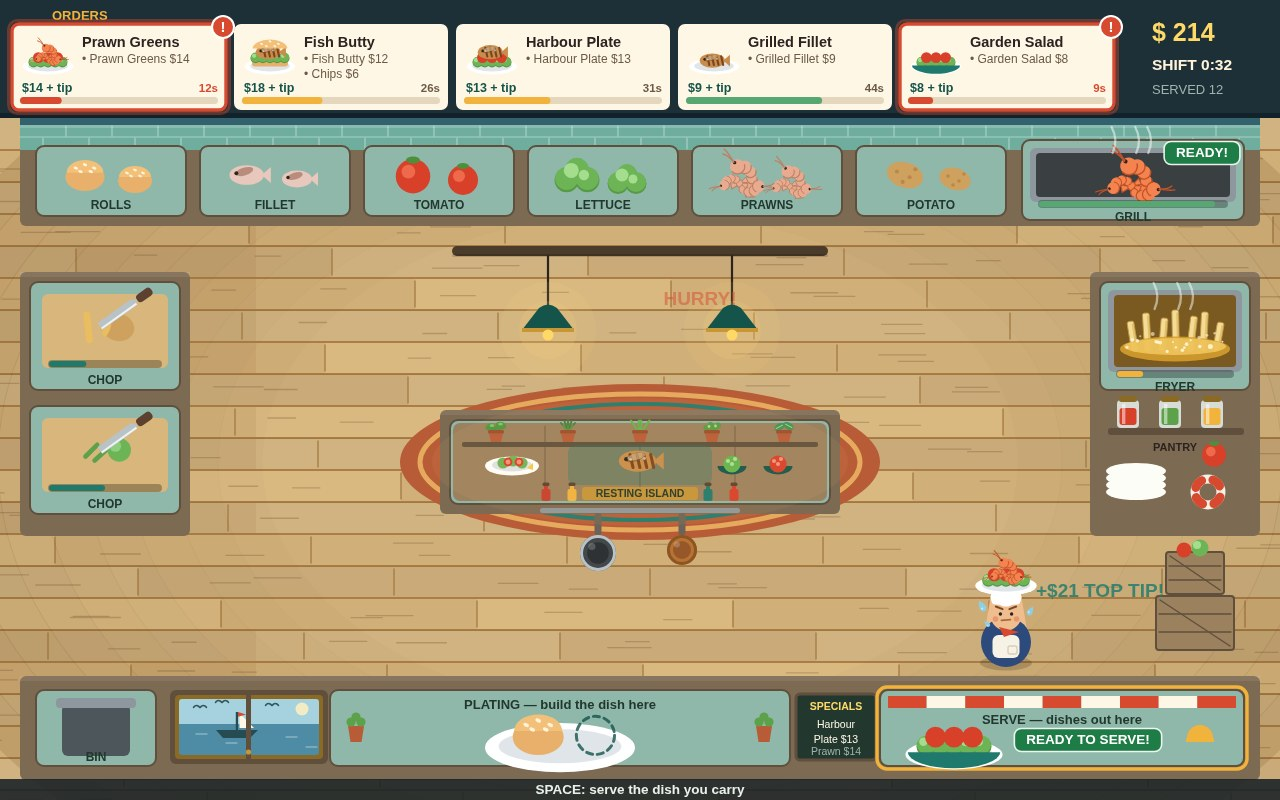
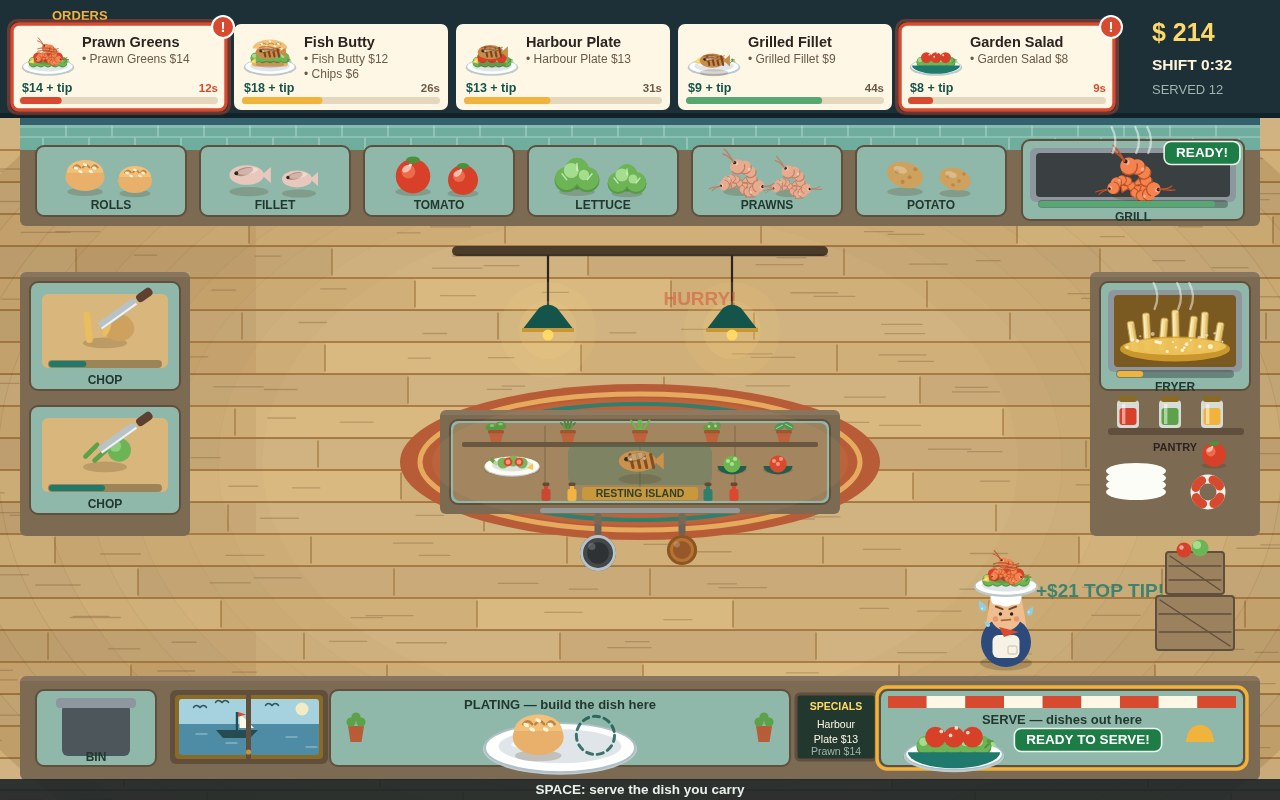
V11: food worth serving — one contact shadow under all food, two-tone crockery rims on every plate, sauce drizzle + lemon + garnish finish on plated dishes, gloss on the raw ingredients (burnt stays matte), answering the judge simulation's appetising caveat

diff --git a/game/src/render.js b/game/src/render.js
@@ -58,7 +58,7 @@ function text(ctx, str, x, y, size, color, align = 'center', bold = true) {
  * fat at the head, slimming ring by ring to a fanned tail — with an eye and feelers.
  * Centred on the origin, roughly 36 units wide before the caller's scale.
  */
-function drawPrawn(ctx, colors, rot) {
+function drawPrawn(ctx, colors, rot, sheen = true) {
   ctx.save();
   ctx.rotate(rot);
   const segs = [];
@@ -87,6 +87,14 @@ function drawPrawn(ctx, colors, rot) {
     ctx.lineWidth = 1.1;
     ctx.beginPath(); ctx.arc(s.x, s.y, s.r, -0.5, 2.1); ctx.stroke();
   }
+  if (sheen) {
+    // A wet sheen on the head and one mid segment — fresh or just grilled,
+    // the shell catches the light. Burnt prawns are matte and skip it.
+    ctx.fillStyle = 'rgba(255,255,255,0.35)';
+    for (const s of [segs[0], segs[2]]) {
+      ctx.beginPath(); ctx.arc(s.x - s.r * 0.3, s.y - s.r * 0.38, s.r * 0.3, 0, Math.PI * 2); ctx.fill();
+    }
+  }
   // The head: one dark eye and two long feelers sweeping back.
   const head = segs[0];
   ctx.fillStyle = '#2b2320';
@@ -103,18 +111,38 @@ function drawPrawn(ctx, colors, rot) {
   ctx.restore();
 }
 
+/**
+ * The contact shadow every piece of food sits on: one flat ellipse of warm
+ * shade in the renderer's own language (no gradients anywhere in this file),
+ * drawn in the caller's local units just before the food itself, so a tomato
+ * on a board and a plate on the pass both rest on the surface under them
+ * instead of floating over it. One helper, one colour, everywhere.
+ */
+function foodShadow(ctx, rx, y) {
+  ctx.fillStyle = 'rgba(74,44,16,0.20)';
+  ctx.beginPath(); ctx.ellipse(0, y, rx, rx * 0.24, 0, 0, Math.PI * 2); ctx.fill();
+}
+
 /** One ingredient, centred on (x, y), roughly s px across. Used by bins, hands and boards. */
-export function drawItem(ctx, item, x, y, s) {
+export function drawItem(ctx, item, x, y, s, shadow = true) {
   const u = s / 40;
   ctx.save();
   ctx.translate(x, y);
   ctx.scale(u, u);
+  if (shadow) foodShadow(ctx, item.startsWith('fillet') ? 17 : 15.5, 14.5);
   switch (item) {
     case 'bun':
       ctx.fillStyle = '#e8b06a';
       ctx.beginPath(); ctx.ellipse(0, 2, 17, 12, 0, 0, Math.PI * 2); ctx.fill();
       ctx.fillStyle = '#f2c078';
       ctx.beginPath(); ctx.ellipse(0, -2, 16, 11, 0, Math.PI, 0); ctx.fill();
+      // The baker's scoring: three shallow slashes opened across the dome.
+      ctx.strokeStyle = 'rgba(160,100,40,0.65)';
+      ctx.lineWidth = 1.6;
+      ctx.lineCap = 'round';
+      for (const [sx, ex] of [[-10, -4], [-2, 4], [6, 11]]) {
+        ctx.beginPath(); ctx.moveTo(sx, -6.5); ctx.quadraticCurveTo((sx + ex) / 2, -10.5, ex, -6.5); ctx.stroke();
+      }
       ctx.fillStyle = '#fff3da';
       for (const [sx, sy] of [[-8, -6], [0, -9], [8, -6], [-4, -3], [5, -3]]) {
         ctx.beginPath(); ctx.ellipse(sx, sy, 2, 1.2, 0.4, 0, Math.PI * 2); ctx.fill();
@@ -133,6 +161,11 @@ export function drawItem(ctx, item, x, y, s) {
       ctx.beginPath(); ctx.ellipse(-4, -3, 8, 3.4, -0.3, 0, Math.PI * 2); ctx.fill();
       ctx.fillStyle = '#2b2320';
       ctx.beginPath(); ctx.arc(-11, -1.5, 1.7, 0, Math.PI * 2); ctx.fill();
+      if (item === 'fillet_raw') {
+        // Fresh off the boat: a wet sheen band along the flank.
+        ctx.fillStyle = 'rgba(255,255,255,0.35)';
+        ctx.beginPath(); ctx.ellipse(-1, -3.4, 9, 2.7, -0.18, 0, Math.PI * 2); ctx.fill();
+      }
       if (item === 'fillet_grilled') {
         // Char marks from the grill bars, then a glisten of cooking oil on top.
         ctx.strokeStyle = '#7a451f'; ctx.lineWidth = 2.5; ctx.lineCap = 'round';
@@ -152,9 +185,10 @@ export function drawItem(ctx, item, x, y, s) {
       const colors = item === 'prawns_raw' ? { body: '#e8ab90', line: '#bd7f63' }
         : item === 'prawns_grilled' ? { body: '#f4834f', line: '#c25227' }
         : { body: '#503a2c', line: '#2e2019' };
-      drawPrawn(ctx, colors, 0.25);
-      ctx.save(); ctx.translate(9, 8); ctx.scale(0.82, 0.82); drawPrawn(ctx, colors, 2.5); ctx.restore();
-      ctx.save(); ctx.translate(-9, 9); ctx.scale(0.7, 0.7); drawPrawn(ctx, colors, -0.9); ctx.restore();
+      const sheen = item !== 'prawns_burnt';
+      drawPrawn(ctx, colors, 0.25, sheen);
+      ctx.save(); ctx.translate(9, 8); ctx.scale(0.82, 0.82); drawPrawn(ctx, colors, 2.5, sheen); ctx.restore();
+      ctx.save(); ctx.translate(-9, 9); ctx.scale(0.7, 0.7); drawPrawn(ctx, colors, -0.9, sheen); ctx.restore();
       break;
     }
     case 'tomato':
@@ -162,6 +196,11 @@ export function drawItem(ctx, item, x, y, s) {
       ctx.beginPath(); ctx.arc(0, 1, 15, 0, Math.PI * 2); ctx.fill();
       ctx.fillStyle = '#ef6a4d';
       ctx.beginPath(); ctx.arc(-4, -3, 6, 0, Math.PI * 2); ctx.fill();
+      // A ripe gloss: one soft highlight and its pin-dot, upper left.
+      ctx.fillStyle = 'rgba(255,255,255,0.55)';
+      ctx.beginPath(); ctx.ellipse(-5.5, -5.5, 4.2, 2.6, -0.6, 0, Math.PI * 2); ctx.fill();
+      ctx.fillStyle = 'rgba(255,255,255,0.7)';
+      ctx.beginPath(); ctx.arc(-2.2, -8.6, 1.4, 0, Math.PI * 2); ctx.fill();
       ctx.fillStyle = '#4d8f3a';
       ctx.beginPath(); ctx.ellipse(0, -13, 6, 3, 0, 0, Math.PI * 2); ctx.fill();
       break;
@@ -174,6 +213,9 @@ export function drawItem(ctx, item, x, y, s) {
       }
       break;
     case 'lettuce':
+      // A dark heart under the leaves, so the ruffles sit in their own shade.
+      ctx.fillStyle = '#4c8a3e';
+      ctx.beginPath(); ctx.ellipse(0, 8, 12, 4.5, 0, 0, Math.PI * 2); ctx.fill();
       ctx.fillStyle = '#579a44';
       for (const [ox, oy] of [[-9, 3], [9, 3], [0, -5]]) {
         ctx.beginPath(); ctx.arc(ox, oy + 1.5, 10.5, 0, Math.PI * 2); ctx.fill();
@@ -185,6 +227,13 @@ export function drawItem(ctx, item, x, y, s) {
       ctx.fillStyle = '#a5dd8f';
       ctx.beginPath(); ctx.arc(-5, -4, 6.5, 0, Math.PI * 2); ctx.fill();
       ctx.beginPath(); ctx.arc(6, 0, 4.5, 0, Math.PI * 2); ctx.fill();
+      // Pale veins out from the heart of each leaf.
+      ctx.strokeStyle = 'rgba(220,245,205,0.8)';
+      ctx.lineWidth = 1.3;
+      ctx.lineCap = 'round';
+      for (const [x1, y1, x2, y2] of [[-9, 4, -13, -1], [9, 4, 13, -1], [0, -4, 0, -10]]) {
+        ctx.beginPath(); ctx.moveTo(x1, y1); ctx.lineTo(x2, y2); ctx.stroke();
+      }
       break;
     case 'lettuce_cut': {
       // Shreds with real colour pop: a dark bed, bright bodies, pale tips.
@@ -205,6 +254,9 @@ export function drawItem(ctx, item, x, y, s) {
       ctx.beginPath(); ctx.ellipse(0, 0, 16, 11, 0.3, 0, Math.PI * 2); ctx.fill();
       ctx.fillStyle = '#b8894a';
       for (const [px, py] of [[-7, -3], [4, 2], [9, -5], [-2, 6]]) { ctx.beginPath(); ctx.arc(px, py, 1.8, 0, Math.PI * 2); ctx.fill(); }
+      // A dull sheen on the skin, upper left.
+      ctx.fillStyle = 'rgba(255,255,255,0.28)';
+      ctx.beginPath(); ctx.ellipse(-4, -4.5, 6, 3, 0.3, 0, Math.PI * 2); ctx.fill();
       break;
     case 'potato_cut':
       // Cut potato, one step deeper toward the chips' gold than it used to be —
@@ -263,15 +315,26 @@ export function drawItem(ctx, item, x, y, s) {
 const LAYER_ORDER = ['bun', 'lettuce_cut', 'tomato_cut', 'fillet_grilled', 'prawns_grilled'];
 
 /** A plated dish (or a plate mid-assembly) drawn as its stacked layers, plate included. */
-export function drawPlate(ctx, items, x, y, s) {
+export function drawPlate(ctx, items, x, y, s, shadow = true) {
   const u = s / 90;
   ctx.save();
   ctx.translate(x, y);
   ctx.scale(u, u);
+  if (shadow) foodShadow(ctx, 44, 18);
+  // Crockery, not a disc: a grey outer edge under the white, a hairline
+  // around the rim, the well a touch deeper, and a sheen along the rim's
+  // left where the light catches it.
+  ctx.fillStyle = '#bfcbd0';
+  ctx.beginPath(); ctx.ellipse(0, 17.5, 43.5, 13.8, 0, 0, Math.PI * 2); ctx.fill();
   ctx.fillStyle = '#ffffff';
   ctx.beginPath(); ctx.ellipse(0, 16, 42, 13, 0, 0, Math.PI * 2); ctx.fill();
+  ctx.strokeStyle = '#aebfc5';
+  ctx.lineWidth = 1.2;
+  ctx.beginPath(); ctx.ellipse(0, 16, 42, 13, 0, 0, Math.PI * 2); ctx.stroke();
   ctx.fillStyle = '#dfe5e8';
   ctx.beginPath(); ctx.ellipse(0, 15, 33, 9, 0, 0, Math.PI * 2); ctx.fill();
+  ctx.fillStyle = 'rgba(255,255,255,0.7)';
+  ctx.beginPath(); ctx.ellipse(-15, 11.5, 12, 3, -0.15, 0, Math.PI * 2); ctx.fill();
   const layers = LAYER_ORDER.filter((item) => items.includes(item));
   let top = 12;
   for (const item of layers) {
@@ -300,13 +363,57 @@ export function drawPlate(ctx, items, x, y, s) {
     }
   }
   if (layers.length > 1 && items.includes('bun')) {
-    // The top bun crowns a finished butty.
+    // The top bun crowns a finished butty — scored like its bin self.
     ctx.fillStyle = '#f2c078';
     ctx.beginPath(); ctx.ellipse(0, top - 2, 29, 15, 0, Math.PI, 0); ctx.fill();
+    ctx.strokeStyle = 'rgba(160,100,40,0.6)';
+    ctx.lineWidth = 1.8;
+    ctx.lineCap = 'round';
+    for (const [sx, ex] of [[-16, -7], [-3, 6], [10, 18]]) {
+      ctx.beginPath(); ctx.moveTo(sx, top - 9); ctx.quadraticCurveTo((sx + ex) / 2, top - 13.5, ex, top - 9); ctx.stroke();
+    }
     ctx.fillStyle = '#fff3da';
     for (const [sx, sy] of [[-14, top - 10], [0, top - 14], [14, top - 10], [-6, top - 6], [8, top - 6]]) {
       ctx.beginPath(); ctx.ellipse(sx, sy, 2.6, 1.5, 0.4, 0, Math.PI * 2); ctx.fill();
     }
+  }
+  // The finish, the difference between food and a dish: a grilled plate gets
+  // a sauce drizzle across its top and a lemon wedge at its side; every
+  // plate gets a garnish sprig at its rim; a salad gets its dressing dots.
+  const grilled = items.includes('fillet_grilled') || items.includes('prawns_grilled');
+  if (grilled) {
+    ctx.strokeStyle = 'rgba(146,64,24,0.55)';
+    ctx.lineWidth = 2.1;
+    ctx.lineCap = 'round';
+    for (const dy of [-3.5, 0.5]) {
+      ctx.beginPath();
+      ctx.moveTo(-17, top + dy);
+      ctx.quadraticCurveTo(-6, top + dy - 3.4, 4, top + dy);
+      ctx.quadraticCurveTo(11, top + dy + 2.6, 17, top + dy - 0.6);
+      ctx.stroke();
+    }
+    // The lemon wedge: a yellow fan with a paler heart, at the plate's left.
+    ctx.fillStyle = '#f7c948';
+    ctx.beginPath(); ctx.moveTo(-33, 9); ctx.lineTo(-24, 1); ctx.lineTo(-23, 11); ctx.closePath(); ctx.fill();
+    ctx.fillStyle = '#fbe38a';
+    ctx.beginPath(); ctx.moveTo(-30.5, 8); ctx.lineTo(-25.5, 4); ctx.lineTo(-25, 9.5); ctx.closePath(); ctx.fill();
+  }
+  if (items.includes('lettuce_cut') && items.includes('tomato_cut') && !grilled && !items.includes('bun')) {
+    ctx.fillStyle = 'rgba(255,246,220,0.85)';
+    for (const [dx, dy] of [[-11, -2], [2, -5], [12, -1], [-3, 1.5]]) {
+      ctx.beginPath(); ctx.arc(dx, top + dy, 1.6, 0, Math.PI * 2); ctx.fill();
+    }
+  }
+  if (layers.length) {
+    // A garnish sprig at the rim: two small leaves and a stem, bright green.
+    ctx.strokeStyle = '#4c8a3e';
+    ctx.lineWidth = 1.4;
+    ctx.lineCap = 'round';
+    ctx.beginPath(); ctx.moveTo(27, 10); ctx.quadraticCurveTo(30, 6, 33.5, 4.5); ctx.stroke();
+    ctx.fillStyle = '#579a44';
+    ctx.beginPath(); ctx.ellipse(31.5, 5.5, 3.6, 2, 0.7, 0, Math.PI * 2); ctx.fill();
+    ctx.fillStyle = '#a5dd8f';
+    ctx.beginPath(); ctx.ellipse(34, 7.5, 2.8, 1.6, 0.9, 0, Math.PI * 2); ctx.fill();
   }
   if (items.includes('lettuce_cut') && items.includes('tomato_cut') && !items.includes('bun')
     && !items.includes('fillet_grilled') && !items.includes('prawns_grilled')) {
@@ -327,10 +434,19 @@ function drawPlateSpread(ctx, items, x, y, s) {
   ctx.save();
   ctx.translate(x, y);
   ctx.scale(u, u);
+  foodShadow(ctx, 56, 12.5);
+  // The same crockery as a finished plate: grey edge, hairline, sheen.
+  ctx.fillStyle = '#bfcbd0';
+  ctx.beginPath(); ctx.ellipse(0, 11, 56.5, 18.8, 0, 0, Math.PI * 2); ctx.fill();
   ctx.fillStyle = '#ffffff';
   ctx.beginPath(); ctx.ellipse(0, 10, 55, 18, 0, 0, Math.PI * 2); ctx.fill();
+  ctx.strokeStyle = '#aebfc5';
+  ctx.lineWidth = 1.4;
+  ctx.beginPath(); ctx.ellipse(0, 10, 55, 18, 0, 0, Math.PI * 2); ctx.stroke();
   ctx.fillStyle = '#dfe5e8';
   ctx.beginPath(); ctx.ellipse(0, 9, 45, 12.5, 0, 0, Math.PI * 2); ctx.fill();
+  ctx.fillStyle = 'rgba(255,255,255,0.7)';
+  ctx.beginPath(); ctx.ellipse(-20, 5.5, 16, 4, -0.15, 0, Math.PI * 2); ctx.fill();
   const slots = items.length >= 3 ? [[-29, 1], [0, -6], [29, 1]]
     : items.length === 2 ? [[-28, 0], [28, 0]]
     : [[-16, 0]];
@@ -347,13 +463,13 @@ function drawPlateSpread(ctx, items, x, y, s) {
 }
 
 /** The icon for a whole dish: a plate stack for recipes, the carton for fries. */
-export function drawDish(ctx, dishId, x, y, s) {
+export function drawDish(ctx, dishId, x, y, s, shadow = true) {
   if (dishId === 'fries') {
-    drawItem(ctx, 'fries', x, y, s * 0.9);
+    drawItem(ctx, 'fries', x, y, s * 0.9, shadow);
     return;
   }
   const recipe = DISHES[dishId];
-  if (recipe) drawPlate(ctx, recipe.items, x, y, s);
+  if (recipe) drawPlate(ctx, recipe.items, x, y, s, shadow);
 }
 
 function drawStationBase(ctx, station, active, shaking) {
@@ -413,6 +529,7 @@ function drawMidChop(ctx, item, chops, x, y, s) {
   ctx.save();
   ctx.translate(x, y);
   ctx.scale(u, u);
+  foodShadow(ctx, 17, 13);
   if (item === 'tomato') {
     // Slices already off, fanned to the left.
     for (let i = 0; i < chops; i++) {
@@ -434,6 +551,9 @@ function drawMidChop(ctx, item, chops, x, y, s) {
     for (const [sx, sy] of [[4, 4], [10, 5.4], [16, 4]]) {
       ctx.beginPath(); ctx.arc(sx, sy, 1.5, 0, Math.PI * 2); ctx.fill();
     }
+    // The dome's gloss, the same highlight the whole tomato wears.
+    ctx.fillStyle = 'rgba(255,255,255,0.5)';
+    ctx.beginPath(); ctx.ellipse(5.5, -2.5, 3.4, 1.9, -0.5, 0, Math.PI * 2); ctx.fill();
     ctx.fillStyle = '#4d8f3a';
     ctx.beginPath(); ctx.ellipse(10, -8.5, 5, 2.6, 0, 0, Math.PI * 2); ctx.fill();
   } else if (item === 'potato') {
@@ -499,6 +619,8 @@ function drawFryerCooking(ctx, cx, cy) {
     ctx.rotate(rot);
     ctx.fillStyle = face;
     rr(ctx, -3.4, -h, 6.8, h, 2); ctx.fill();
+    ctx.fillStyle = 'rgba(255,252,235,0.5)';
+    ctx.fillRect(-2.4, -h + 3, 1.5, h - 8);
     ctx.fillStyle = shade;
     ctx.fillRect(1, -h + 2.5, 2, h - 5);
     ctx.strokeStyle = edge;
@@ -762,6 +884,8 @@ function drawKitchen(ctx, state) {
   crate(1166, 552, 58, 42);
   ctx.fillStyle = '#d8402a';
   ctx.beginPath(); ctx.arc(1184, 550, 7.5, 0, Math.PI * 2); ctx.fill();
+  ctx.fillStyle = 'rgba(255,255,255,0.55)';
+  ctx.beginPath(); ctx.arc(1181.5, 547.5, 2.2, 0, Math.PI * 2); ctx.fill();
   ctx.fillStyle = '#6db457';
   ctx.beginPath(); ctx.arc(1200, 548, 8.5, 0, Math.PI * 2); ctx.fill();
   ctx.fillStyle = '#a5dd8f';
@@ -874,6 +998,10 @@ function drawKitchen(ctx, state) {
       // A dressed resting plate at the left end: greens, tomato, a lemon wedge.
       const rpX = station.x + 62;
       const rpY = station.y + 46;
+      ctx.fillStyle = 'rgba(74,44,16,0.18)';
+      ctx.beginPath(); ctx.ellipse(rpX, rpY + 3.5, 28, 7, 0, 0, Math.PI * 2); ctx.fill();
+      ctx.fillStyle = '#bfcbd0';
+      ctx.beginPath(); ctx.ellipse(rpX, rpY + 0.8, 27.8, 10, 0, 0, Math.PI * 2); ctx.fill();
       ctx.fillStyle = '#ffffff';
       ctx.beginPath(); ctx.ellipse(rpX, rpY, 27, 9.5, 0, 0, Math.PI * 2); ctx.fill();
       ctx.fillStyle = '#dfe5e8';
@@ -891,8 +1019,15 @@ function drawKitchen(ctx, state) {
       }
       ctx.fillStyle = '#f7c948';
       ctx.beginPath(); ctx.moveTo(rpX + 15, rpY + 2); ctx.lineTo(rpX + 21, rpY - 3); ctx.lineTo(rpX + 21, rpY + 4); ctx.closePath(); ctx.fill();
+      // A garnish sprig on the resting plate too — the same finish as the pass.
+      ctx.fillStyle = '#579a44';
+      ctx.beginPath(); ctx.ellipse(rpX - 19, rpY - 5, 3.4, 1.9, 0.7, 0, Math.PI * 2); ctx.fill();
+      ctx.fillStyle = '#a5dd8f';
+      ctx.beginPath(); ctx.ellipse(rpX - 16.5, rpY - 2.8, 2.6, 1.5, 0.9, 0, Math.PI * 2); ctx.fill();
       // Two garnish bowls at the right end: chopped greens, diced tomato.
       const bowl = (bx, mound, fleck) => {
+        ctx.fillStyle = 'rgba(74,44,16,0.15)';
+        ctx.beginPath(); ctx.ellipse(bx, station.y + 50, 15, 4, 0, 0, Math.PI * 2); ctx.fill();
         ctx.fillStyle = COLORS.tealDark;
         ctx.beginPath(); ctx.ellipse(bx, station.y + 46, 14.5, 8.5, 0, 0, Math.PI); ctx.fill();
         ctx.fillStyle = mound;
@@ -993,8 +1128,15 @@ function drawKitchen(ctx, state) {
         if (recipeForStack(state.plate)) drawPlate(ctx, state.plate, cx, station.y + 42, 104);
         else drawPlateSpread(ctx, state.plate, cx, station.y + 44, 150);
       } else {
+        // The empty plate waiting on the pass wears the same crockery as a
+        // full one: grey edge, hairline, sheen.
+        ctx.fillStyle = '#bfcbd0';
+        ctx.beginPath(); ctx.ellipse(cx, station.y + 53.5, 43.5, 13.8, 0, 0, Math.PI * 2); ctx.fill();
         ctx.fillStyle = '#ffffff';
         ctx.beginPath(); ctx.ellipse(cx, station.y + 52, 42, 13, 0, 0, Math.PI * 2); ctx.fill();
+        ctx.strokeStyle = '#aebfc5';
+        ctx.lineWidth = 1.2;
+        ctx.beginPath(); ctx.ellipse(cx, station.y + 52, 42, 13, 0, 0, Math.PI * 2); ctx.stroke();
         ctx.fillStyle = '#dfe5e8';
         ctx.beginPath(); ctx.ellipse(cx, station.y + 51, 33, 9, 0, 0, Math.PI * 2); ctx.fill();
       }
@@ -1154,11 +1296,12 @@ function drawChef(ctx, state) {
   ctx.lineTo(x + chef.face * 13, y - 4);
   ctx.lineTo(x - 2, y + 1);
   ctx.closePath(); ctx.fill();
-  // Whatever the chef carries rides overhead, both hands up.
+  // Whatever the chef carries rides overhead, both hands up — carried food
+  // casts no contact shadow; it is in the air, over his toque.
   if (chef.carry) {
     const dish = DISHES[chef.carry];
-    if (dish) drawDish(ctx, chef.carry, x, y - 62, 66);
-    else drawItem(ctx, chef.carry, x, y - 60, 46);
+    if (dish) drawDish(ctx, chef.carry, x, y - 62, 66, false);
+    else drawItem(ctx, chef.carry, x, y - 60, 46, false);
   }
 }
 
